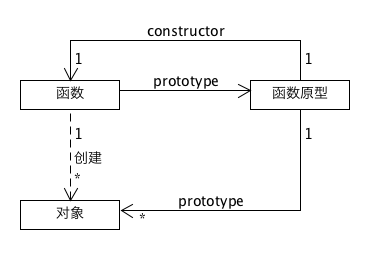
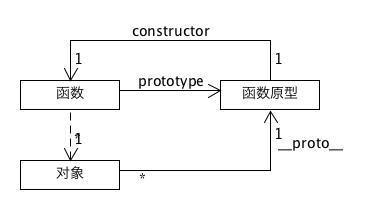
no message

diff --git a/web/javascript/oop.md b/web/javascript/oop.md
@@ -1,3 +1,18 @@
+### 关于构造函数
+构造函数只是一个普通的函数，当使用new操作符调用一个函数时，这个函数就被认为是构造函数。下面两段代码的功能是相同的
+
+```
+var o = new MyClass();
+```
+
+```
+var o = {};
+o.__proto__ = MyClass.prototype;
+MyClass.call(o);
+```
+### prototype和__proto__
+prototype是Function类型的属性，\_\_proto__是Object类型的属性。
+![](prototype.png)
 ##工厂模式
 
 ```
@@ -34,7 +49,6 @@ console.log(person instanceof Person) //true
 
 ##原型模式 + 构造函数模式
 
-![](prototype.png)
 
 ```
 function Person(name, age ,job) {
